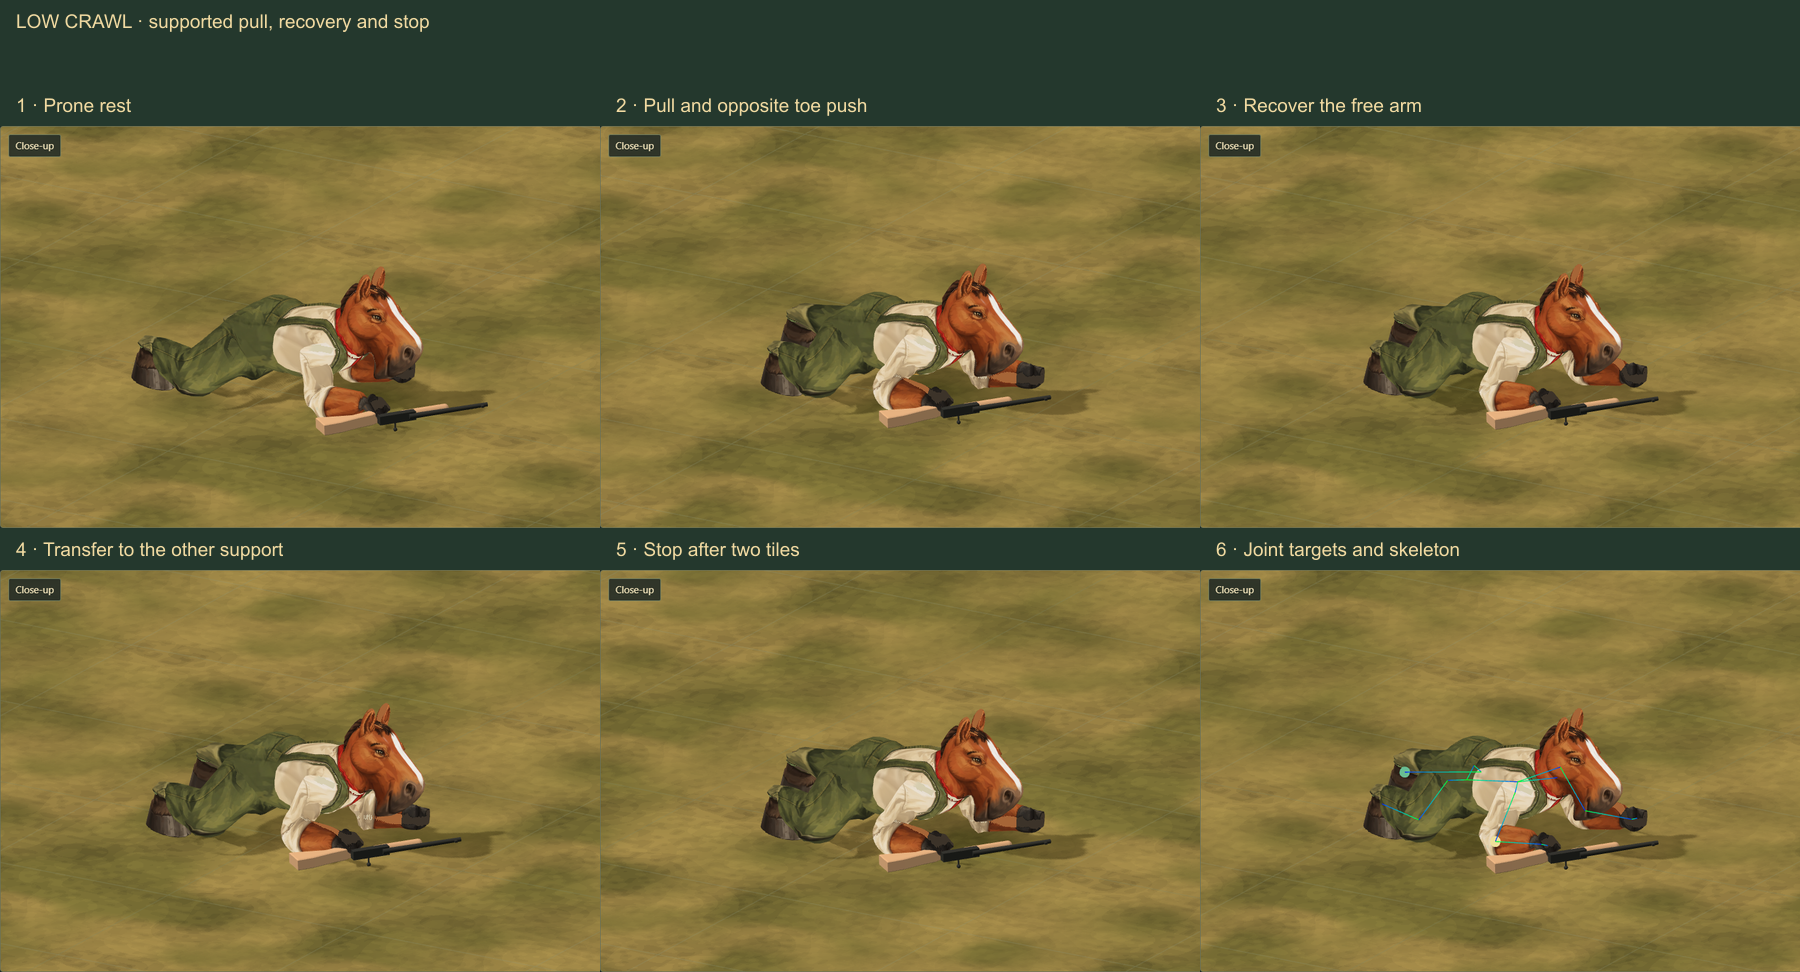
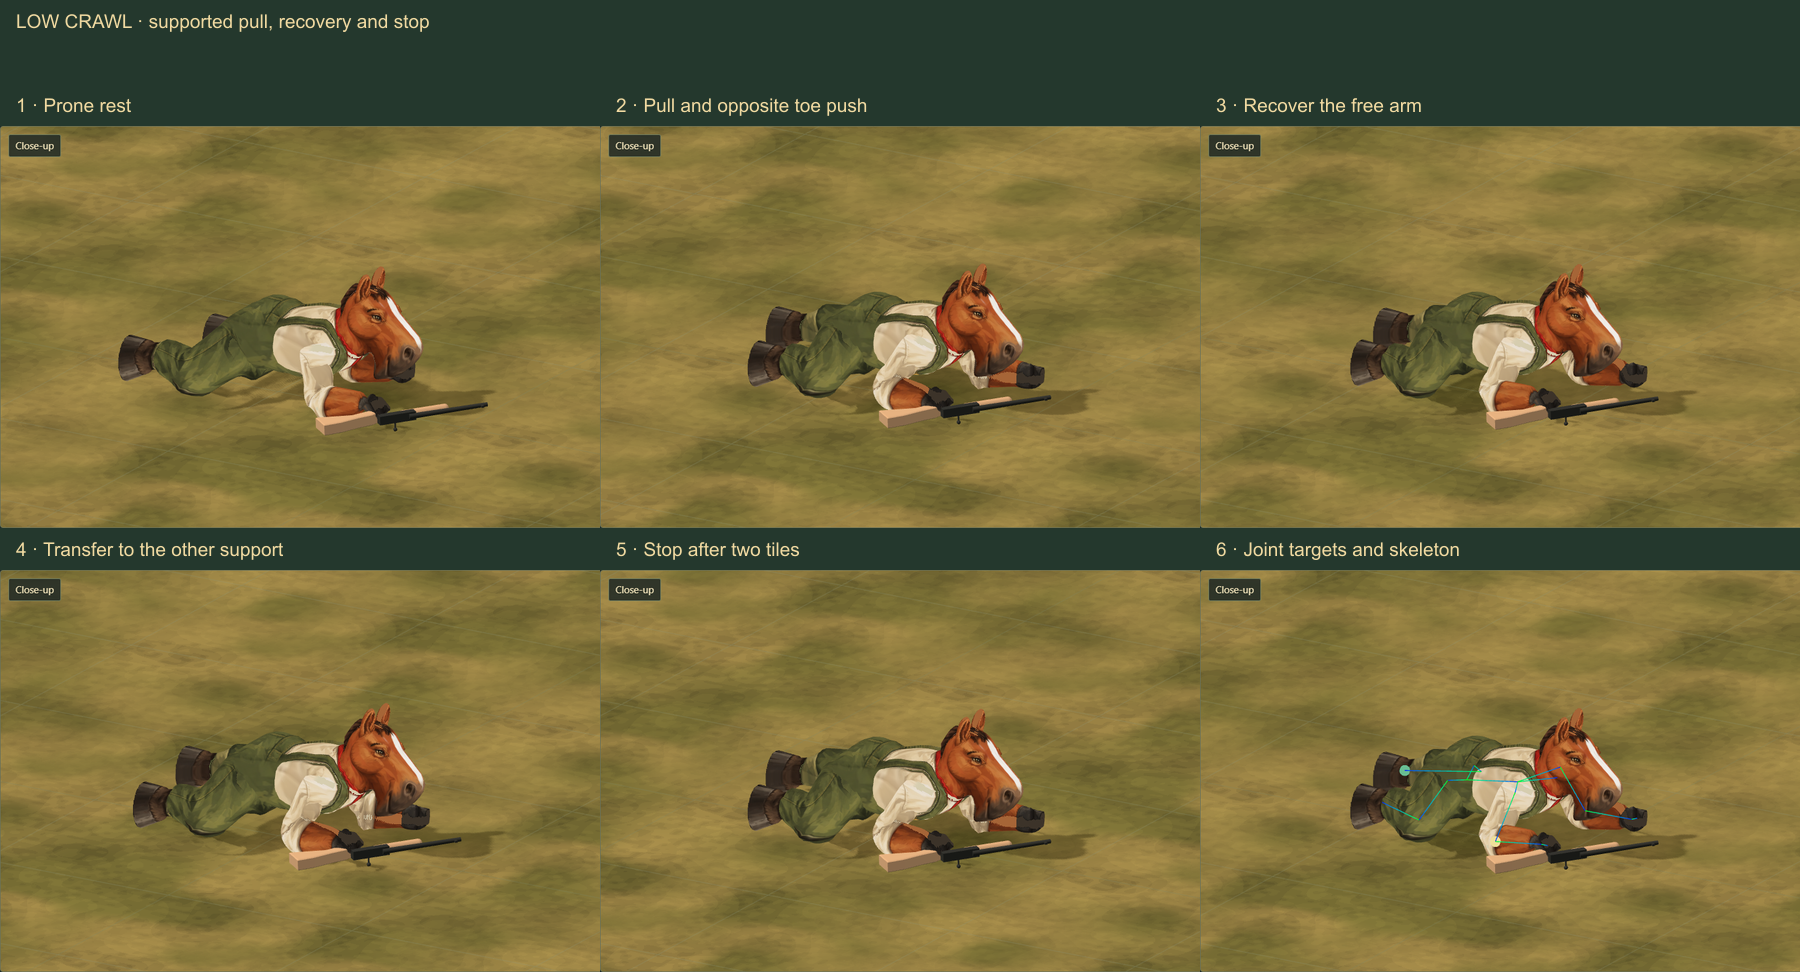
Point crawling hooves backward

diff --git a/dist/tactics/crawl-motion.js b/dist/tactics/crawl-motion.js
@@ -11,7 +11,8 @@ export function createCrawlMotion(worker,profile,{offhand=null}={}){
  if(profile.unarmed)return createHenCrawlMotion(worker,profile);
  const original=snapshot(worker.bones),rootState={p:worker.root.position.clone(),q:worker.root.quaternion.clone(),s:worker.root.scale.clone()},loadoutState=[worker.weapon.root,worker.weapon.mount,worker.weapon.hose,...(worker.gripHands||[])].filter(Boolean).map(o=>({o,p:o.position.clone(),q:o.quaternion.clone(),s:o.scale.clone(),visible:o.visible})),surfaces=worker.parts.map(mesh=>({mesh,index:mesh.geometry.index,attributes:Object.fromEntries(['position','normal','skinIndex','skinWeight'].map(n=>[n,{original:mesh.geometry.attributes[n],copy:mesh.geometry.attributes[n].clone()}]))}));
  worker.pose('neutral');worker.root.position.set(0,0,0);worker.root.quaternion.identity();const bind=snapshot(worker.bones),rest=new Map(worker.bones.map(b=>[b,b.getWorldPosition(V())])),bones=Object.fromEntries(worker.bones.map(b=>[b.name,b])),equipment=createCrawlEquipment(worker,profile),secondary=offhand?createCrawlEquipment(worker,profile,{asset:offhand,side:-1}):null,carry=equipment.carry,carrying=side=>side===1?equipment:secondary,footLift=Math.min(carry.footLift,secondary?.carry.footLift??Infinity),sway=Math.min(carry.sway,secondary?.carry.sway??Infinity)*(secondary?.9:1),posture=createBattlePosture(worker,profile),leftHandQ=Q().setFromUnitVectors(V(0,-1,0),V(1,0,0));
- const pig=profile.id.startsWith('pig-'),arms=[-1,1].map(side=>({side,a:bones['upperArm'+side],b:bones['forearm'+side],c:bones['hand'+side]})),legs=[-1,1].map(side=>({side,a:bones['thigh'+side],b:bones['shin'+side],c:bones['hoof'+side]})),length=l=>rest.get(l.a).distanceTo(rest.get(l.b))+rest.get(l.b).distanceTo(rest.get(l.c)),stride=Math.min(pig?.30:.36,...legs.map(l=>length(l)*.54))*Math.min(carry.stride,secondary?.carry.stride??Infinity)*(secondary?.94:1),front=-.06+(rest.get(bones.upperArm1).y-rest.get(bones.hips).y),footQ=Q().setFromAxisAngle(V(0,0,1),-.18);
+ // Extend the relaxed feet behind the prone body instead of keeping a standing ankle angle.
+ const pig=profile.id.startsWith('pig-'),arms=[-1,1].map(side=>({side,a:bones['upperArm'+side],b:bones['forearm'+side],c:bones['hand'+side]})),legs=[-1,1].map(side=>({side,a:bones['thigh'+side],b:bones['shin'+side],c:bones['hoof'+side]})),length=l=>rest.get(l.a).distanceTo(rest.get(l.b))+rest.get(l.b).distanceTo(rest.get(l.c)),stride=Math.min(pig?.30:.36,...legs.map(l=>length(l)*.54))*Math.min(carry.stride,secondary?.carry.stride??Infinity)*(secondary?.94:1),front=-.06+(rest.get(bones.upperArm1).y-rest.get(bones.hips).y),footQ=Q().setFromUnitVectors(V(0,-1,0),V(-1,0,0));
  const feet=legs.map(l=>{let minimum=Infinity;const index=worker.bones.indexOf(l.c),inverse=l.c.matrixWorld.clone().invert();for(const mesh of worker.parts){const a=mesh.geometry.attributes;for(let i=0;i<a.position.count;i++){let weight=0;for(let k=0;k<4;k++)if(a.skinIndex.getComponent(i,k)===index)weight+=a.skinWeight.getComponent(i,k);if(weight>.8)minimum=Math.min(minimum,V().fromBufferAttribute(a.position,i).applyMatrix4(mesh.matrixWorld).applyMatrix4(inverse).applyQuaternion(footQ).y);}}return {...l,height:.006-minimum,width:Math.abs(rest.get(l.c).z),bias:-length(l)*(pig?.59:.70)};});
  // The upper boot/hoof must follow the same ankle blend as its trouser cuff;
  // rotating the whole closed foot rigidly exposes its circular top cap.

diff --git a/docs/tactics/CRAWLING-ARTIST-STUDY-2026-10-23.md b/docs/tactics/CRAWLING-ARTIST-STUDY-2026-10-23.md
@@ -30,7 +30,9 @@ loadouts, including empty hands. The hen retains her native unarmed role.
 - The hen has a low breast shuffle, tucked legs, balancing wings, a folded
   apron hem and a tail laid back. Her head stays upright enough to look ahead.
 - The skunk's plume folds behind the hips. Long tails reuse the existing low
-  posture treatment. Upper boots and hooves blend with the shins so their
+  posture treatment. Mammal hooves, boots and paws extend backward during
+  rest and travel. Their floor height is fitted from the rotated native
+  surfaces; upper boots and hooves still blend with the shins so their
   closed top caps remain inside the trouser cuffs.
 
 Long guns are carried diagonally on their sides. The hand closes over the
@@ -149,8 +151,9 @@ There are no new character meshes, texture atlases or dependencies in gameplay.
   all seven pairs, camera angles, contact guides, contrasting ground and mobile
   layout. The complete weapon stepper and automatic tour are exercised.
   No browser, shader or asset-load error was recorded.
-- A final 20-capture pass also verifies readable carry captions, the 13-step
-  weapon tour and the six source/package comparisons.
+- The backward-foot correction repeats the complete 265-capture pass above,
+  including readable carry captions and the six source/package comparisons.
+  The sequence, roster and weapon boards show the corrected foot direction.
 - Fresh source and packaged screenshots match exactly for horse, flamethrower,
   hen, donkey guide, paired items and HMG. Replaying 50 cycles retains bounded
   geometry/texture counts for horse, hen and paired equipment. Delayed-load
@@ -158,10 +161,10 @@ There are no new character meshes, texture atlases or dependencies in gameplay.
   offhand loading. Disposable review browsers exited and released their ports.
 - The Pages build and asset audit pass. These are isolated study checks, not a
   full-battle frame-time result. The independent reviewer cleared both fitting
-  holds and rated the base motion at `9fdc681` **9/10**. The weapon follow-up is
-  covered by the additional fit and browser checks above. A roughly 0.003-unit
-  support-handover
-  adjustment remains optional polish, below a pixel at the gameplay scale.
+  holds and rated the base motion at `9fdc681` **9/10**. The weapon follow-up
+  and backward-foot corrections are covered by the fit and browser checks
+  above. A roughly 0.003-unit support-handover adjustment remains optional
+  polish, below a pixel at the gameplay scale.
 
 The [compact validation record](review-images/crawling/validation.json) preserves
 the selected image hashes and replay resource counts. Reproduce browser captures
